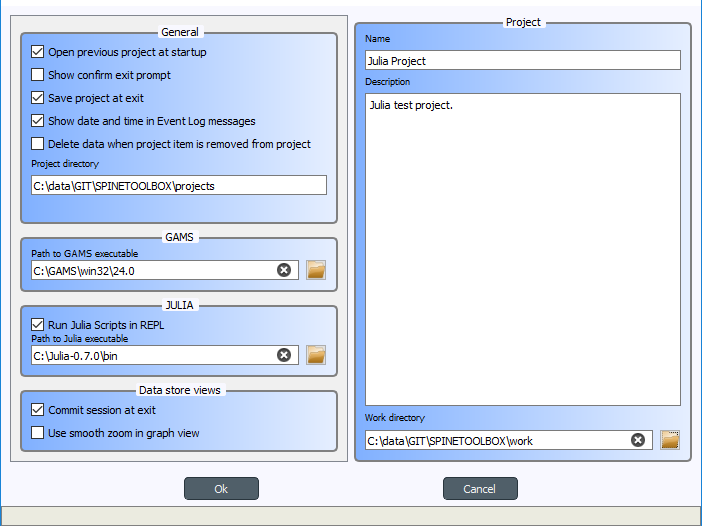
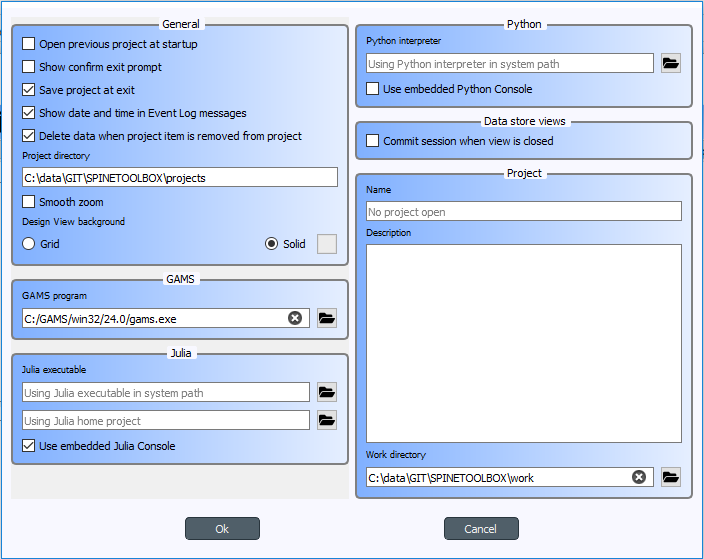
Issue #382. Updated Settings page in User Guide.

diff --git a/docs/source/settings.rst b/docs/source/settings.rst
@@ -7,7 +7,7 @@
 Settings
 ********
 
-Spine Toolbox settings are categorized in the following way:
+Spine Toolbox settings are categorized in the following way
 
 .. contents::
     :local:
@@ -20,71 +20,107 @@ You can open the application settings from the main window menu `File->Settings.
 .. image:: img/settings_form.png
    :align: center
 
-The settings on this form have been categorized into five categories. The *General*, *GAMS*, *Julia*, and
-*Data Store views* settings are general application settings, which affect all projects. Settings in the
-*Project* category only affect the current project. The general application settings are saved to file called
-``settings.conf`` in your application directory. It is safe to delete this file if you want to go back to default
-settings.
+The settings on this form have been categorized into six categories. *General*, *GAMS*, *Julia*, *Python* and
+*Data store views* settings are general application settings, which affect all projects. Settings in the
+*Project* category only affect the current project.
 
 General settings
 ================
 
-- **Open previous project at exit** If checked, application opens the project at startup that was open the last
-  time the application was exited. If left unchecked, application starts without a project open.
+- **Open previous project at startup** If checked, application opens the project at startup that was open the last
+  time the application was shut down. If left unchecked, application starts without a project open.
+
 - **Show confirm exit prompt** If checked, confirm exit prompt is shown. If unchecked, application exits
   without prompt.
+
 - **Save project at exit** Unchecked: Does not save project and does not show message box. Partially checked:
   Shows message box (default). Checked: Saves project and does not show message box.
-- **Show date and time in Event Log messages** If checked, date and time string is appended into every Event
-  Log message.
+
+- **Show date and time in Event Log messages** If checked, date and time is appended into every Event Log message.
+
 - **Delete data when project item is removed from project** Check this box to delete project item's data when
   a project item is removed from project. This means, that the project item directory and its contents will be
-  deleted from your HD.
+  deleted from your hard drive.
+
 - **Project directory** Directory where projects are saved. This is non-editable at the moment.
+
+- **Smooth zoom** Controls the way zooming (by using the mouse wheel) behaves in Design View and Graph View.
+  Controls if the zoom in/out is continuous or discrete. On older computers, smooth zoom is not recommended.
+
+- **Design View background** Choosing grid shows a black grid as the Design View background. Choosing Solid and then
+  clicking on the square next to it let's you choose the background color.
 
 GAMS settings
 =============
-- **Path to GAMS executable** Path to directory where GAMS and GAMSIDE executables are found. GAMS in the
-  selected directory is used to execute GAMS tools. You can leave this blank to use the system GAMS i.e. GAMS
-  that you have set up in your system PATH variable.
+
+- **GAMS program** Path to Gams executable you wish to use to execute GAMS Tool templates. Leave this blank to use
+  the system GAMS i.e. GAMS set up in your system PATH variable.
 
 Julia settings
 ==============
-- **Run Julia scripts in REPL** Check this option to execute Julia tools in the built-in Julia REPL. If you leave
-  this un-checked, Julia tools will be executed as in the shell. For example, on Windows this would be the
-  equivalent as running command ``julia.exe example_script.jl`` in the command prompt. If using the Julia REPL,
-  the ``example_script.jl`` is *included* into the built-in Julia REPL and executed there.
-- **Path to Julia executable**. Path to Julia executable that you wish to use to execute Julia Tools. This is the
-  Julia REPL that will be used if REPL execution is preferred and also the Julia executable used when executing
-  Julia tools as in the shell. You can leave this blank, if you wish to use the system Julia.
+
+- **Julia executable** Path to Julia executable you wish to use to execute Julia Tool templates. This is the Julia
+  that will be used in the embedded Julia Console and also the Julia that is used when executing Julia Tool templates
+  as in the shell. Leave this blank, if you wish to use the system Julia.
+
+- **Julia home project** Set the Julia home project here.
+
+- **Use embedded Julia Console** Check this box to execute Julia Tool templates in the built-in Julia Console. If
+  you leave this un-checked, Julia Tool templates will be executed as in the shell. For example, on Windows this
+  would be the equivalent as running command ``julia.exe example_script.jl`` in the command prompt. If you decide
+  to use the embedded Julia Console, the ``example_script.jl`` is *included* into the console and executed there.
+  It is highly recommended to use the embedded Julia Console, since this gives significant performance improvements
+  compared to shell execution.
+
+Python settings
+===============
+
+- **Python interpreter** Path to Python executable you wish to use to execute Python Tool templates. This is the
+  Python that will be used in the embedded Python Console and also the Python that is used when executing Python
+  Tool templates as in the shell. Leave this blank, if you wish to use the system Python.
+
+- **Use embedded Python Console** Check this box to execute Python Tool templates in the embedded iPython Console.
+  If you un-check this box, Python Tool templates will be executed as in the shell. For example, on Windows this
+  would be the equivalent as running command ``python.exe script.py`` in the command prompt. If you decide to use
+  the embedded Python Console, the ``script.py`` is executed there.
 
 Data Store views settings
 =========================
-- **Commit session at exit** This checkbox controls what happens when you close the tree view, graph view,
-  or the tabular view when you have uncommitted changes. Unchecked: Does not commit session and does not show
-  message box. Partially checked: Shows message box (default). Checked: Commits session and does not show
+
+- **Commit session when view is closed** This checkbox controls what happens when you close the Tree view, the
+  Graph view, or the tabular view and when you have uncommitted changes. Unchecked: Does not commit session and does
+  not show message box. Partially checked: Shows message box (default). Checked: Commits session and does not show
   message box.
-- **Use smooth zoom in graph view** Controls if the zoom in/out in graph view is continuous or if there are
-  discrete steps in zooming. On slower computers, it's recommended to not use smooth zooming.
 
 Project settings
-----------------
+================
 These settings affect only the project that is currently open.
 
 - **Name** Current project name. If you want to change the name of the project, use menu option `File-Save as...`.
+
 - **Description** Current project description. You can edit the description here.
+
 - **Work directory** Directory where processing the Tool takes place. You can change this directory. Make sure to
   clean up the directory every now and then.
 
 Project item settings / properties
 ----------------------------------
-Each project item (Data Store, Data Connection, Tool, or View) has its own set of properties. These are saved
-into the project save file. You can view and edit them in project item properties on the main window.
+Each project item (Data Store, Data Connection, Tool, View, and Data Interface) has its own set of properties.
+These are saved into the project save file. You can view and edit them in project item properties on the main window.
 
 Application preferences
 -----------------------
 Spine Toolbox remembers the size, location, and placement of most of the application windows from the
-previous session (i.e. when closing and restarting the app). These settings are saved to a location depending
-on your operating system. E.g. on Windows you can find these settings in the registry key
-``HKEY_CURRENT_USER\Software\SpineProject\Spine Toolbox``. Its safe to delete this key if you want to reset
-the preferences to factory settings.
+previous session (i.e. when closing and restarting the app).
+
+Where are the Settings stored?
+------------------------------
+Application Settings and Preferences are saved to a location that depends on your operating system. On Windows,
+there is no separate settings file, the settings are stored into registry key
+``HKEY_CURRENT_USER\Software\SpineProject\Spine Toolbox``. It is safe to delete this key if you want to reset
+application to factory settings.
+
+Projects are saved to `.proj` files in the Project directory. In addition, each project has its own dedicated
+directory under the Project directory which can be used to keep data from different projects separate. All project
+items in a project have their own directory under that project's directory, where individual project item data can be
+stored (e.g. `.sqlite` files in Data Store directories).

diff --git a/docs/source/getting_started.rst b/docs/source/getting_started.rst
@@ -199,7 +199,7 @@ should now be looking like this:
 .. image:: img/hello_world_input_tool_template_editor.png
   :align: center
 
-Clik **Ok** at the bottom of the form.
+Click **Ok** at the bottom of the form.
 
 So far so good. Now let's use this input file in our program.
 Click on the 'tool template options' button (|tool_template_options|) again,
